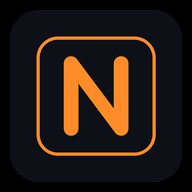
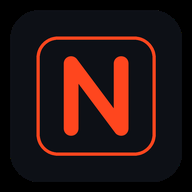
Accent color: orange-red (between orange and red)

Changed region(s): [[0.3125, 0.2812, 0.6875, 0.7188], [0.1875, 0.1875, 0.8125, 0.8125]]

diff --git a/branding/make_logo.py b/branding/make_logo.py
@@ -16,8 +16,8 @@ BRAND_DIR = os.path.join(REPO, "branding")
 
 # Brand palette
 PANEL_BG = (13, 16, 22, 255)      # near-black blue
-ORANGE = (255, 140, 40, 255)      # brand orange
-ORANGE_GLOW = (255, 140, 40, 90)
+ACCENT = (255, 70, 30, 255)      # brand orange-red
+ACCENT_GLOW = (255, 70, 30, 90)
 WHITE = (240, 244, 248, 255)
 GRAY = (140, 150, 160, 255)
 
@@ -82,8 +82,8 @@ def _icon_layers(px, icon_cx, icon_cy, icon_size):
 
     glow = Image.new("RGBA", (px, px), (0, 0, 0, 0))
     gd = ImageDraw.Draw(glow)
-    rounded_rect(gd, icon_cx, icon_cy, icon_size, 0.18, 0.03, ORANGE_GLOW)
-    draw_circuit_n(gd, icon_cx, icon_cy, icon_size, ORANGE_GLOW, 0.03)
+    rounded_rect(gd, icon_cx, icon_cy, icon_size, 0.18, 0.03, ACCENT_GLOW)
+    draw_circuit_n(gd, icon_cx, icon_cy, icon_size, ACCENT_GLOW, 0.03)
     return base, glow
 
 
@@ -96,8 +96,8 @@ def make_logo(size=1024, with_text=True):
 
     icon_cx, icon_cy = px / 2, px * 0.355
     icon_size = px * 0.44
-    rounded_rect(d, icon_cx, icon_cy, icon_size, 0.18, 0.022, ORANGE)
-    draw_circuit_n(d, icon_cx, icon_cy, icon_size, ORANGE)
+    rounded_rect(d, icon_cx, icon_cy, icon_size, 0.18, 0.022, ACCENT)
+    draw_circuit_n(d, icon_cx, icon_cy, icon_size, ACCENT)
 
     if with_text:
         f_word = font(int(px * 0.105), "SemiBold")
@@ -107,7 +107,7 @@ def make_logo(size=1024, with_text=True):
         x = (px - (w1 + w2)) / 2
         y = px * 0.66
         d.text((x, y), t1, font=f_word, fill=WHITE)
-        d.text((x + w1, y), t2, font=f_word, fill=ORANGE)
+        d.text((x + w1, y), t2, font=f_word, fill=ACCENT)
 
         f_tag = font(int(px * 0.042), "Light")
         tag = "UNIFIED CONTROL"
@@ -129,8 +129,8 @@ def make_icon_only(size=512):
     base, glow = _icon_layers(px, px / 2, px / 2, px * 0.70)
     img, d = _compose_with_glow(base, glow, px)
     icon_cx, icon_cy, icon_size = px / 2, px / 2, px * 0.62
-    rounded_rect(d, icon_cx, icon_cy, icon_size, 0.18, 0.028, ORANGE)
-    draw_circuit_n(d, icon_cx, icon_cy, icon_size, ORANGE)
+    rounded_rect(d, icon_cx, icon_cy, icon_size, 0.18, 0.028, ACCENT)
+    draw_circuit_n(d, icon_cx, icon_cy, icon_size, ACCENT)
     return img.resize((size, size), Image.LANCZOS)
 
 
@@ -161,7 +161,7 @@ def _write_icon_svg(path, size=512):
 def main():
     os.makedirs(BRAND_DIR, exist_ok=True)
     logo = make_logo(1024)
-    logo.convert("RGB").save(os.path.join(BRAND_DIR, "nspanel-nexus-logo-orange.png"))
+    logo.convert("RGB").save(os.path.join(BRAND_DIR, "nspanel-nexus-logo-accent.png"))
 
     make_icon_only(512).convert("RGB").save(os.path.join(BRAND_DIR, "icon-512.png"))
     make_icon_only(192).convert("RGB").save(os.path.join(BRAND_DIR, "icon-192.png"))

diff --git a/README.md b/README.md
@@ -1,6 +1,6 @@
 <div align="center">
 
-<img src="branding/nspanel-nexus-logo-orange.png?v=2" alt="NSPanel Nexus" width="320">
+<img src="branding/nspanel-nexus-logo-accent.png?v=2" alt="NSPanel Nexus" width="320">
 
 # NSPanel Nexus
 
